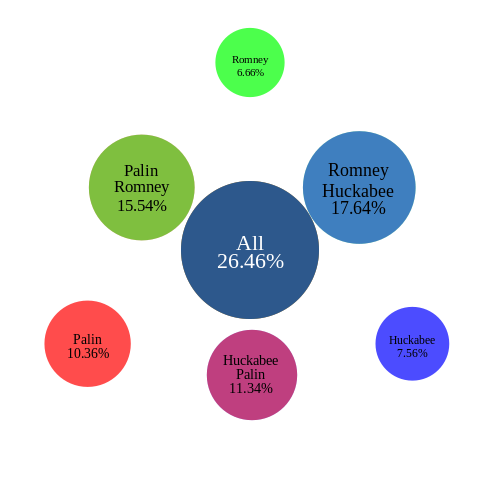
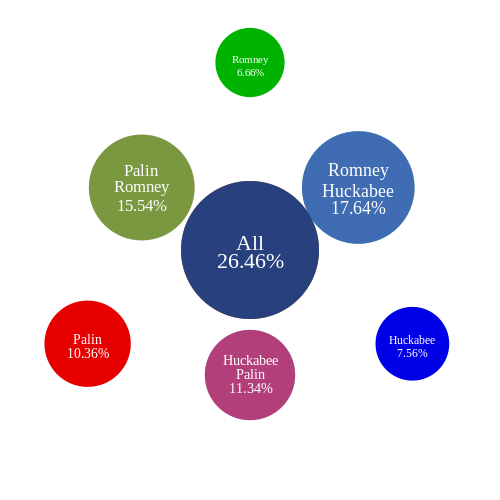
fixed area colors; also added lines connecting original circles, but ended up commenting it out

diff --git a/venn-area.py b/venn-area.py
@@ -38,9 +38,9 @@ colors = { # available colors: 'color' : (r, g, b)
 	'black': (0.0, 0.0, 0.0),
 	'white': (1.0, 1.0, 1.0),
 	'gray':  (0.9, 0.9, 0.9),
-	'red':	 (1.0, 0.0, 0.0),
-	'green': (0.0, 1.0, 0.0),
-	'blue':	 (0.0, 0.0, 1.0),
+	'red':	 (0.9, 0.0, 0.0),
+	'green': (0.0, 0.7, 0.0),
+	'blue':	 (0.0, 0.0, 0.9),
 	'yellow':(1.0, 1.0, 0.0),
 }
 
@@ -88,6 +88,22 @@ def scale_radius(pct):
 	global isize
 	return sqrt(isize * (pct / 100)) * 6
 
+w = 360.0 / len(circles) # degrees in layout circle to each circle...
+
+# draw connecting lines
+"""
+start = 90
+cr.set_source_rgba(0.5, 0.5, 0.5, 0.3)
+for i in range(len(circles)):
+	# bg arc
+	x,y = cossin(xc, yc, start + w/2, radius * 0.75)
+	bgx,bgy = cossin(xc, yc, start + w + w/2, radius * 0.75)
+	cr.move_to(x, y)
+	cr.line_to(bgx, bgy)
+	start += w
+cr.stroke()
+"""
+
 # label center region
 allkey = ' '.join([name for name,_,_ in circles])
 pct = overlap[allkey]
@@ -102,8 +118,6 @@ for name,_,c in circles:
 	alpha *= 0.8
 center_text(cr, xc, yc, colors['white'], 'All %4.2f%%' % (pct), pct)
 
-w = 360.0 / len(circles) # degrees in layout circle to each circle...
-
 # label overlapping regions
 if len(circles) > 2:
 	start = 90 + w/2 # offset 1/2 of circles start
@@ -115,11 +129,11 @@ if len(circles) > 2:
 		for _,_,c in [circles[i], circles[j]]:
 			c = colors[c]
 			cr.set_source_rgba(c[0], c[1], c[2], 0.5)
-			cr.arc(x+i, y, scale_radius(pct), 0, 2*pi)
+			cr.arc(x, y, scale_radius(pct), 0, 2*pi)
 			cr.fill()
 		cr.stroke()
 		# text
-		center_text(cr, x, y, colors['black'], '%s %4.2f%%' % (names, pct), pct)
+		center_text(cr, x, y, colors['white'], '%s %4.2f%%' % (names, pct), pct)
 		start += w
 
 start = 90
@@ -127,15 +141,17 @@ start = 90
 for name,pct,c in circles:
 	# bg color
 	c = colors[c]
-	cr.set_source_rgba(c[0], c[1], c[2], 0.7)
+	cr.set_source_rgba(c[0], c[1], c[2], 1)
 	# draw circle
 	x,y = cossin(xc, yc, start + w/2, radius * 0.75)
+	cr.stroke()
+	# circle
 	cr.arc(x, y, scale_radius(pct), 0, 2*pi)
 	cr.fill()
 	cr.stroke()
 	# circle label
 	x,y = cossin(xc, yc, start + w/2, radius * 0.75)
-	center_text(cr, x, y, colors['black'], '%s %4.2f%%' % (name, pct), pct)
+	center_text(cr, x, y, colors['white'], '%s %4.2f%%' % (name, pct), pct)
 	# loop
 	start += w
 
